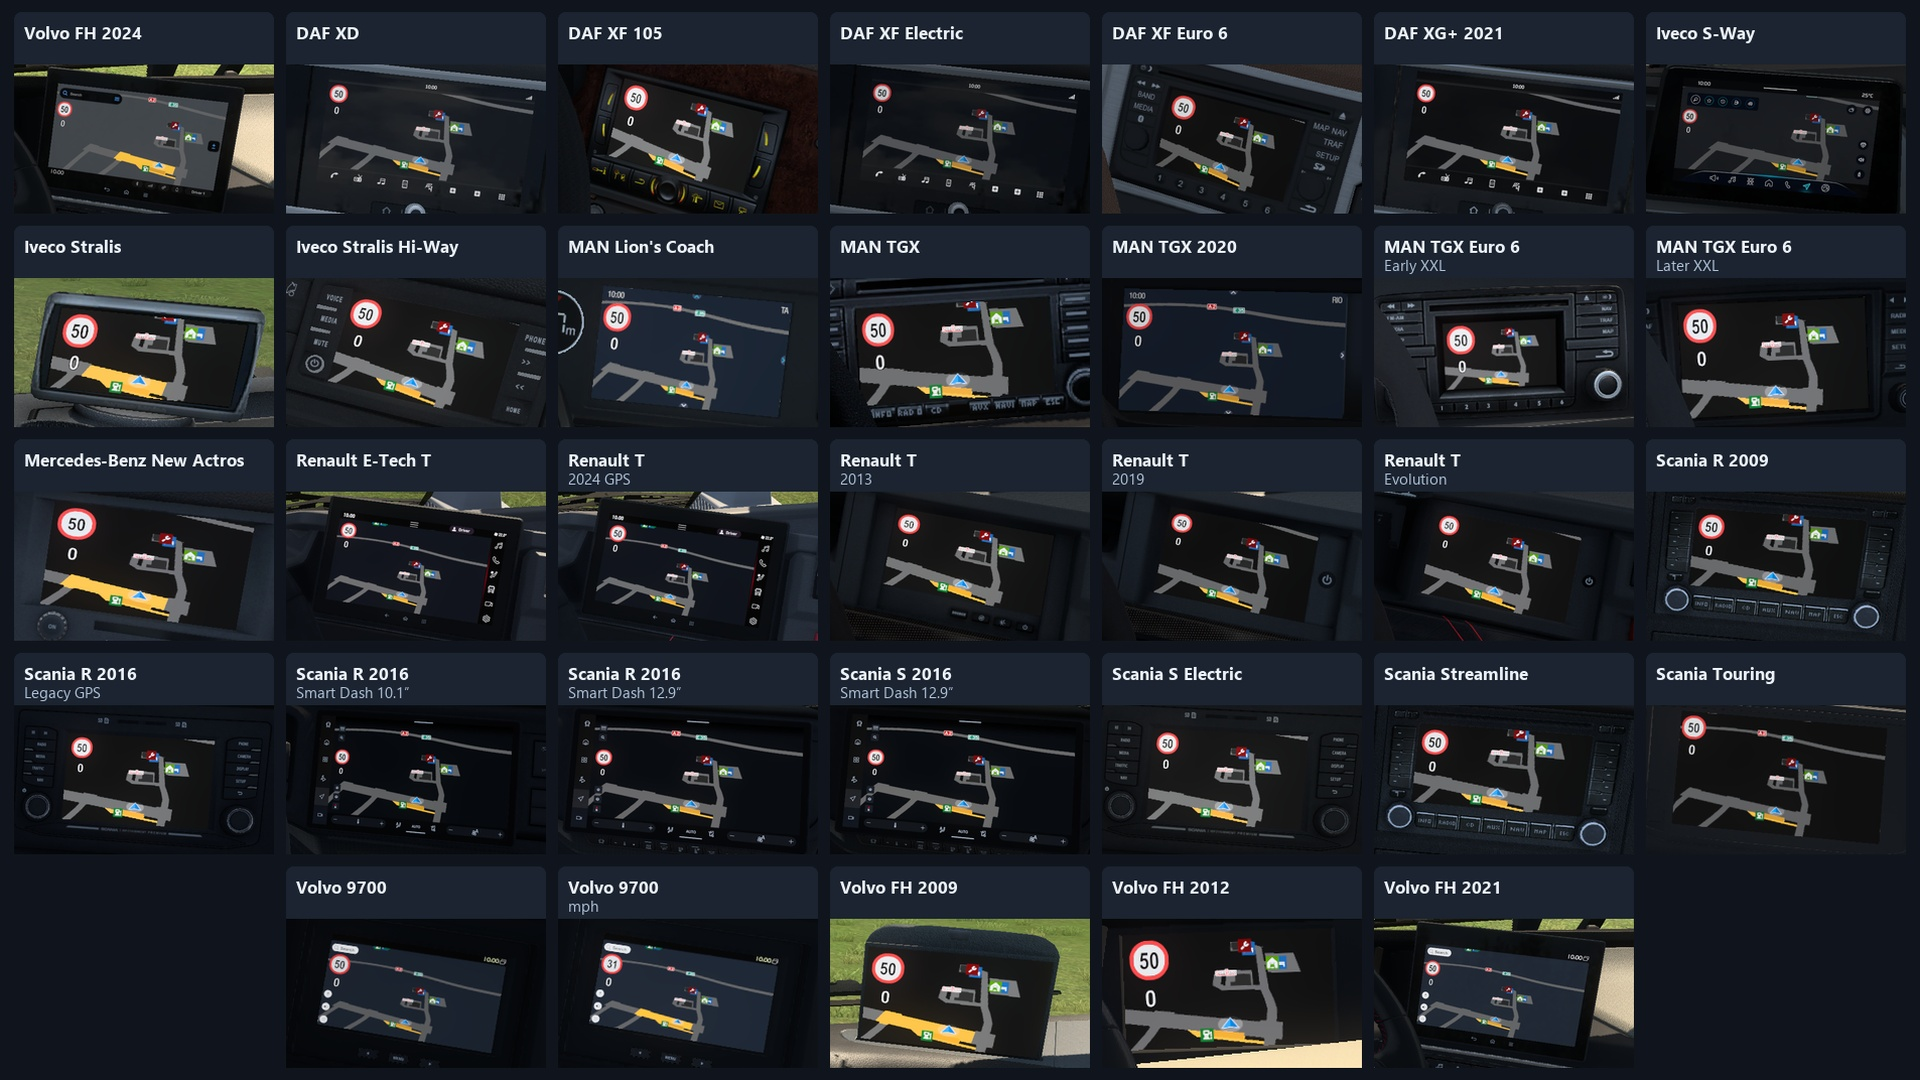
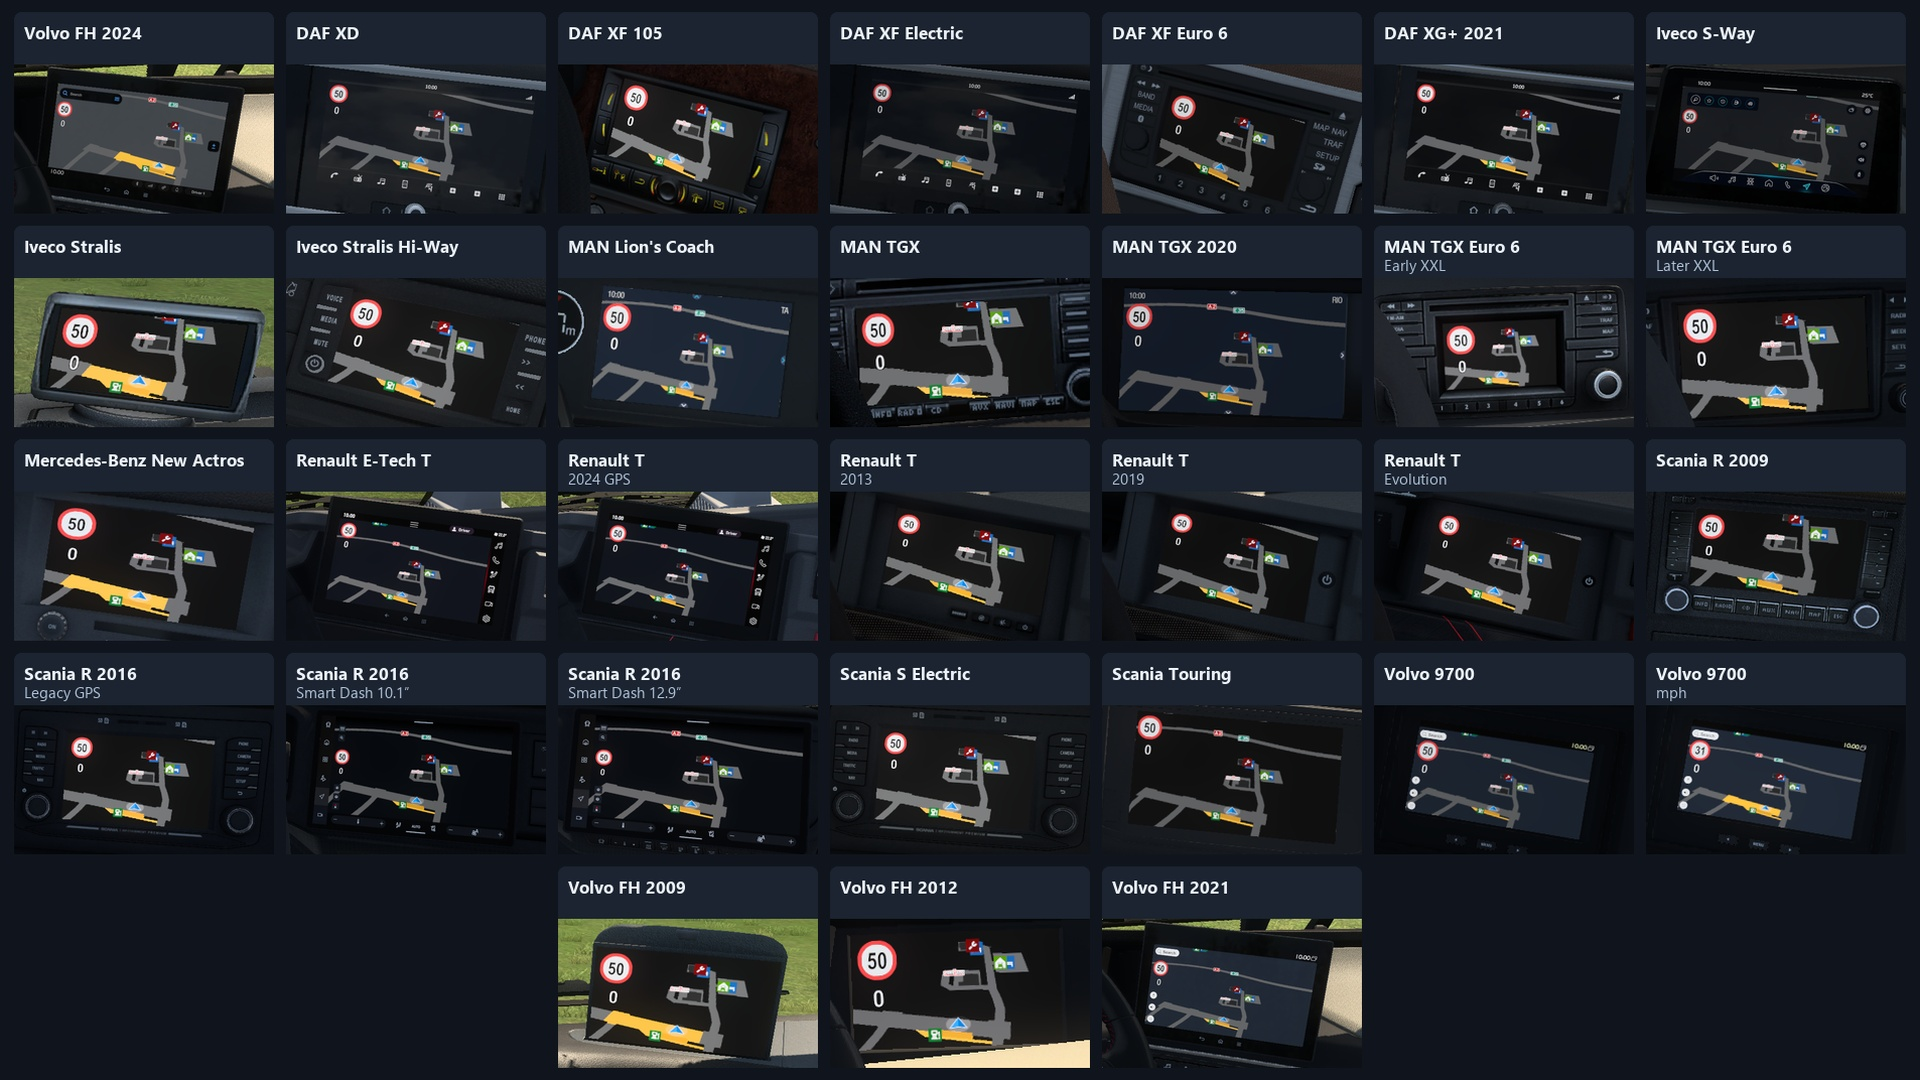
chore(gps-speed-view): remove duplicate GPS screenshots

diff --git a/mods/gps-speed-view/build_preview.py b/mods/gps-speed-view/build_preview.py
@@ -50,9 +50,7 @@ GPS_CROPS = {
     "scania-r-2016-legacy.png": (1555, 500, 2025, 755),
     "scania-r-2016-smartdash-10.png": (1548, 493, 2043, 826),
     "scania-r-2016.png": (1550, 476, 2240, 868),
-    "scania-s-2016.png": (1550, 476, 2240, 868),
     "scania-s-2024e.png": (1565, 520, 2010, 742),
-    "scania-streamline.png": (1625, 627, 2030, 856),
     "scania-touring-23.png": (1510, 635, 1870, 858),
     "volvo-9700-23.png": (1431, 611, 1712, 790),
     "volvo-9700-23-mph.png": (1431, 611, 1712, 790),
@@ -61,14 +59,11 @@ GPS_CROPS = {
     "volvo-fh-2021.png": (1405, 471, 1890, 811),
 }
 
-# This preset has an empty GPS mount in the captured interior.
-CAPTURES_WITHOUT_GPS = {"renault-t-legacy.png"}
-
 
 def sample_rows():
     rows = SAMPLE_ROW.findall((SCREENSHOTS / "README.md").read_text(encoding="utf-8-sig"))
     filenames = {filename for _, _, filename in rows}
-    originals = {path.name for path in SCREENSHOTS.glob("*.png")} - CAPTURES_WITHOUT_GPS
+    originals = {path.name for path in SCREENSHOTS.glob("*.png")}
     if not rows or len(filenames) != len(rows):
         raise ValueError("The sample table must list each original screenshot once.")
     if filenames != originals:

diff --git a/mods/gps-speed-view/screenshots/README.md b/mods/gps-speed-view/screenshots/README.md
@@ -26,9 +26,7 @@
 | Scania R 2016 | Legacy GPS | [Original](scania-r-2016-legacy.png) |
 | Scania R 2016 | Smart Dash 10.1″ | [Original](scania-r-2016-smartdash-10.png) |
 | Scania R 2016 | Smart Dash 12.9″ | [Original](scania-r-2016.png) |
-| Scania S 2016 | Smart Dash 12.9″ | [Original](scania-s-2016.png) |
 | Scania S Electric | — | [Original](scania-s-2024e.png) |
-| Scania Streamline | — | [Original](scania-streamline.png) |
 | Scania Touring | — | [Original](scania-touring-23.png) |
 | Volvo 9700 | — | [Original](volvo-9700-23.png) |
 | Volvo 9700 | mph | [Original](volvo-9700-23-mph.png) |
